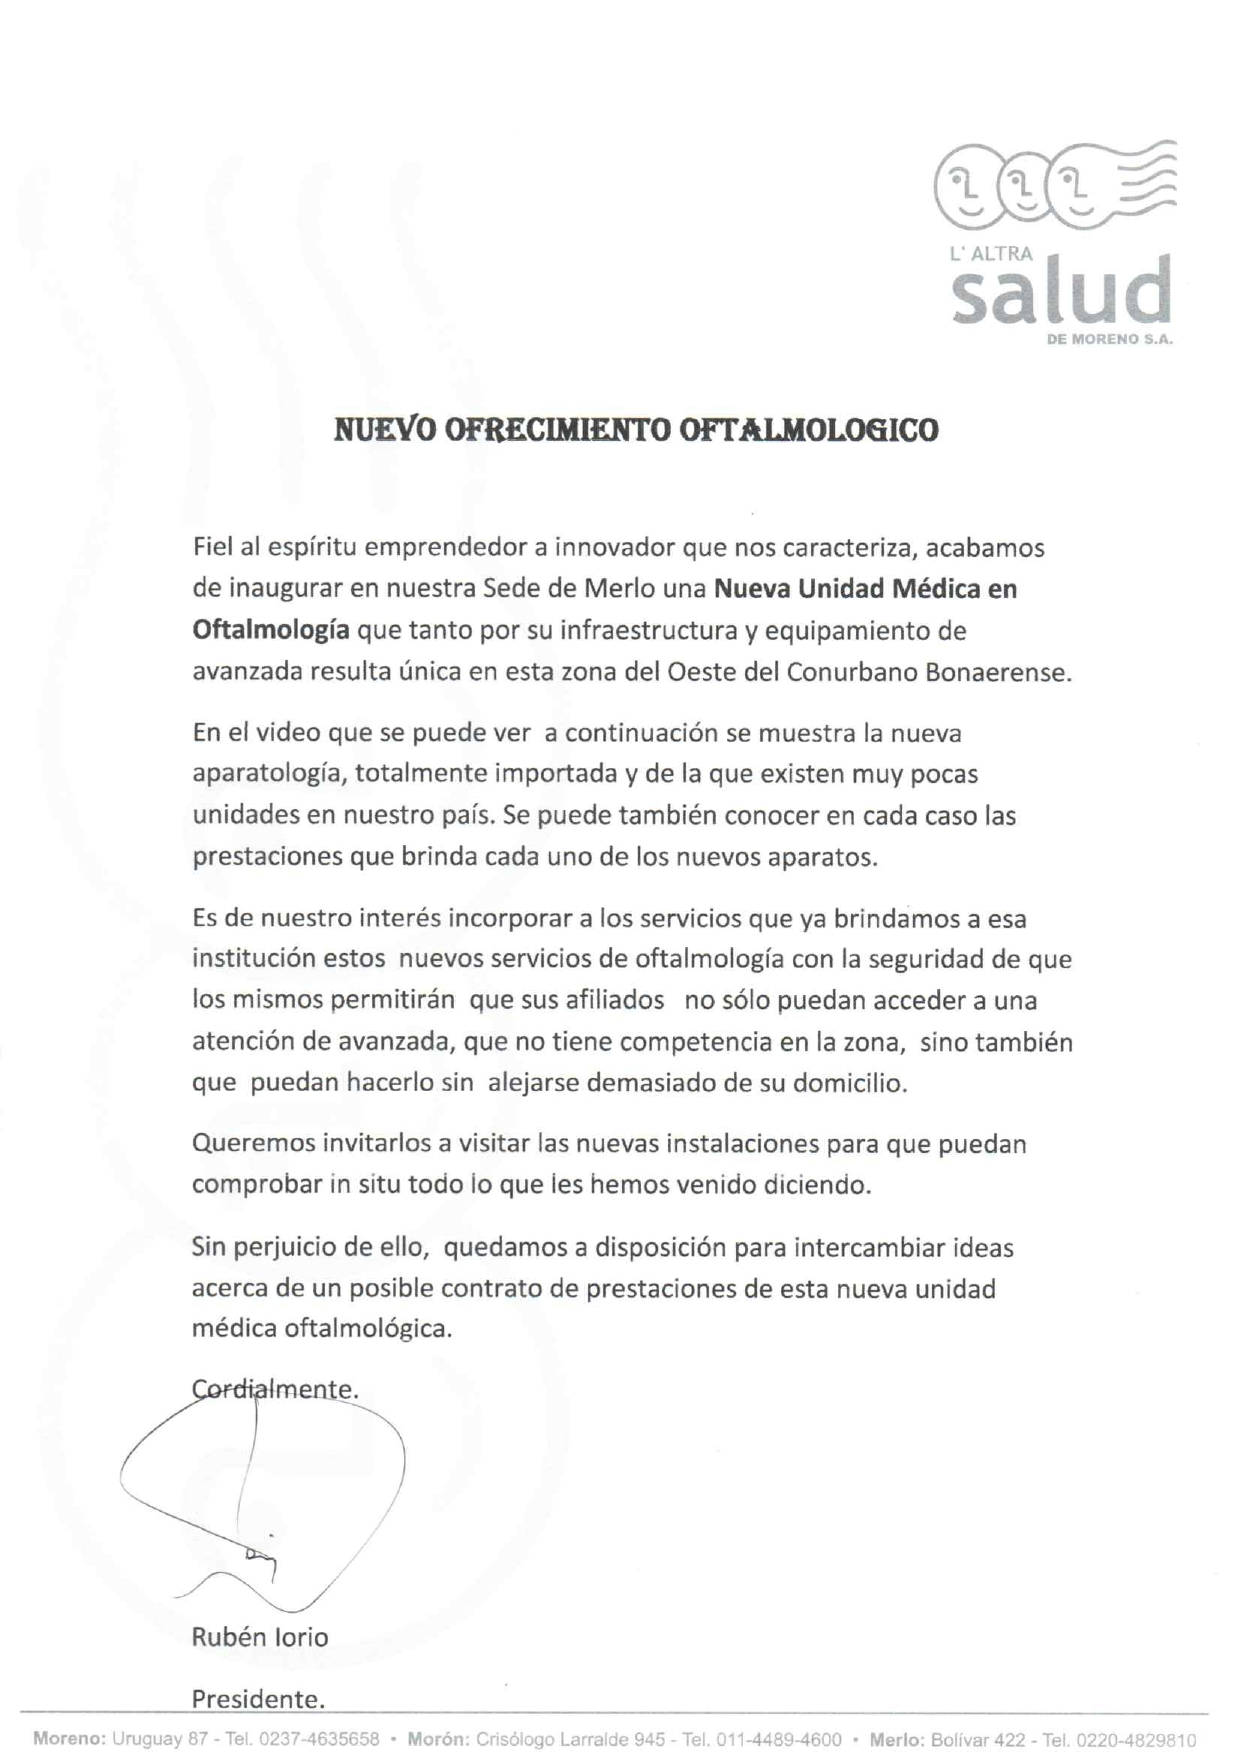
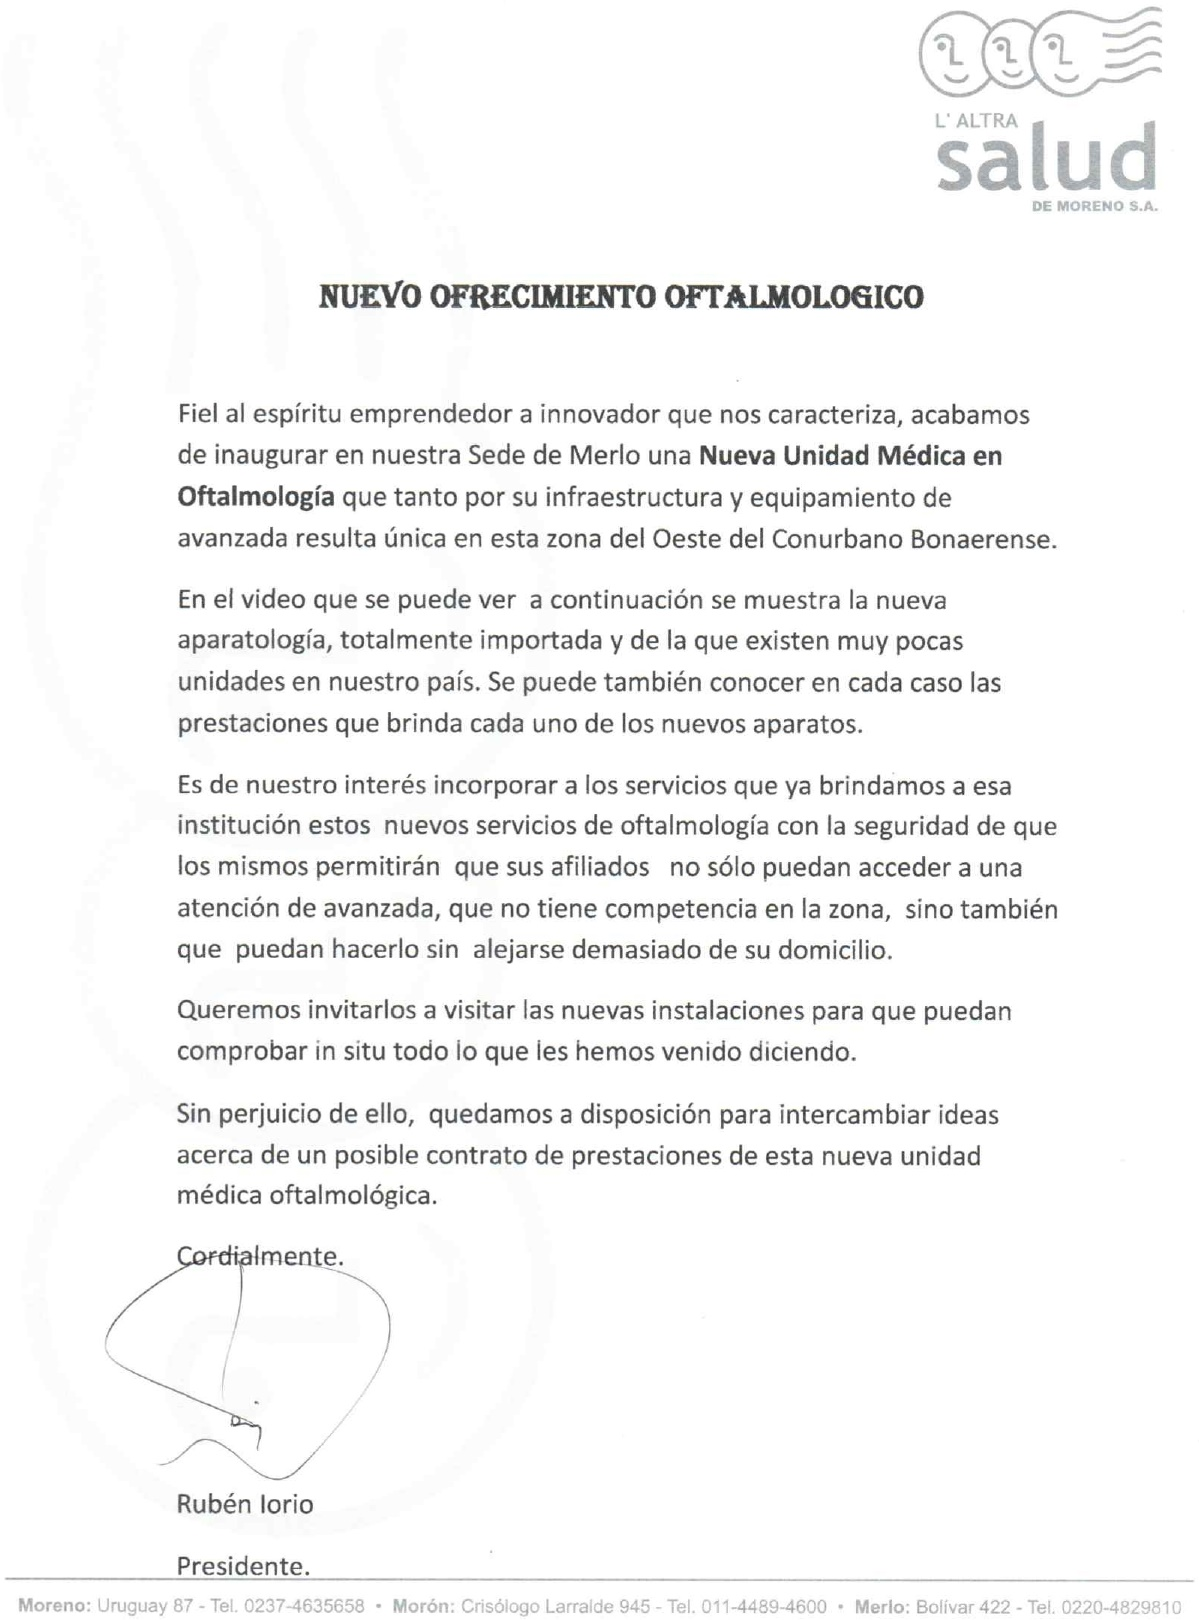
Fix:Ajuste de tamaño de carta de Presentación

diff --git a/src/app/pages/home/home.component.html b/src/app/pages/home/home.component.html
@@ -3,11 +3,10 @@
 <div class="container" id="inicio" data-bs-spy="scroll" data-bs-target="#main-navbar">
     <div class="row">
         <h1 class="display-4 custom-title">L´altra Salud</h1>
-        <img src="assets/imgs/carta-presentacion.jpg" alt="Descripción de la imagen" class="img-fluid my-3" style="width: 130vh; height: 100%; margin: auto;">
-
+        <img src="assets/imgs/carta-presentacion.jpg" alt="Descripción de la imagen" class="zoom-image my-3">
         <app-carousel></app-carousel>
         <div class="col-md-12 text-center">
-            <p class="parrafo" >Con el objetivo de mejorar la salud visual de nuestros pacientes contamos con tecnología avanzada y los mejores profesionales para brindarte una excelence atención.</p>
+            <p class="parrafo">Con el objetivo de mejorar la salud visual de nuestros pacientes contamos con tecnología avanzada y los mejores profesionales para brindarte una excelente atención.</p>
         </div>
     </div>
 

diff --git a/src/app/pages/home/home.component.scss b/src/app/pages/home/home.component.scss
@@ -32,3 +32,22 @@
     width: 100%;
     border: 1px #C0C0C0 solid;
 }
+
+.zoom-image {
+    width: 130vh; /* Ajusta el ancho según tus necesidades */
+    height: auto; /* Mantén la relación de aspecto de la imagen */
+    margin: auto;
+    display: block;
+    object-fit: cover; /* Ajusta la imagen para cubrir el contenedor sin distorsión */
+    transform: scale(1); /* Aplica el zoom deseado */
+    transition: transform 0.5s ease; /* Suaviza el efecto de zoom */
+}
+
+/* Estilos específicos para dispositivos móviles */
+@media (max-width: 768px) {
+    .zoom-image {
+    width: 100vw; 
+    height: auto; 
+    transform: scale(1.1); 
+    }
+}
